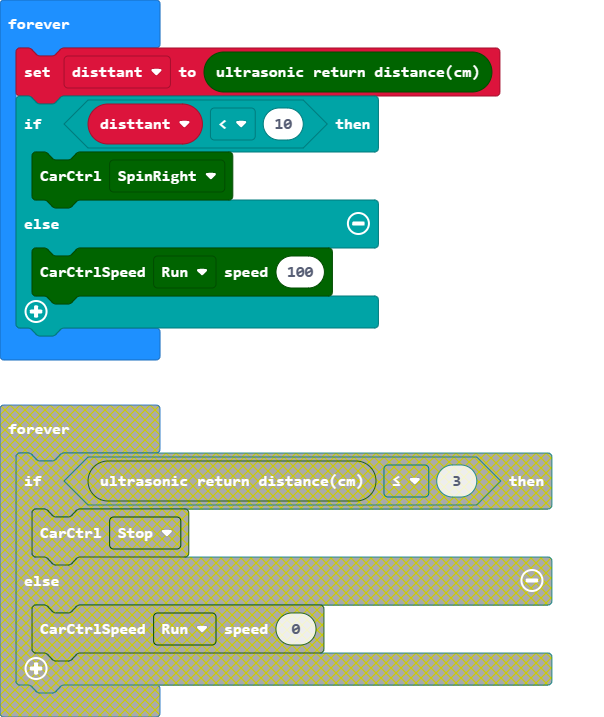
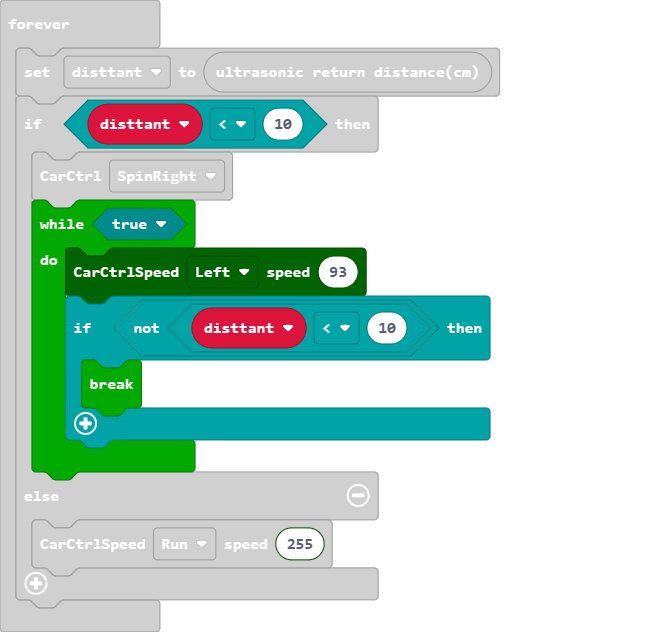
Update main.blocks, main.ts

diff --git a/main.ts b/main.ts
@@ -3,7 +3,13 @@ basic.forever(function () {
     disttant = Tinybit.Ultrasonic_Car()
     if (disttant < 10) {
         Tinybit.CarCtrl(Tinybit.CarState.Car_SpinRight)
+        while (true) {
+            Tinybit.CarCtrlSpeed(Tinybit.CarState.Car_Left, 93)
+            if (!(disttant < 10)) {
+                break;
+            }
+        }
     } else {
-        Tinybit.CarCtrlSpeed(Tinybit.CarState.Car_Run, 100)
+        Tinybit.CarCtrlSpeed(Tinybit.CarState.Car_Run, 255)
     }
 })
